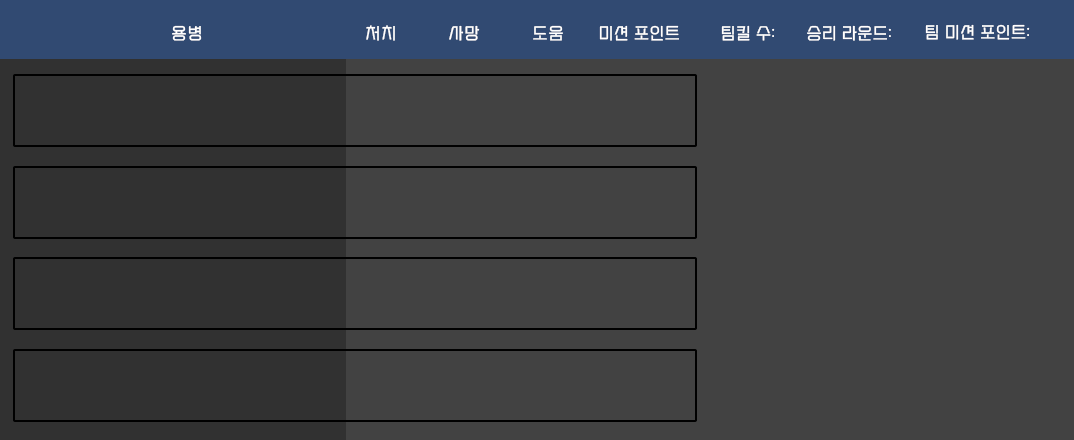
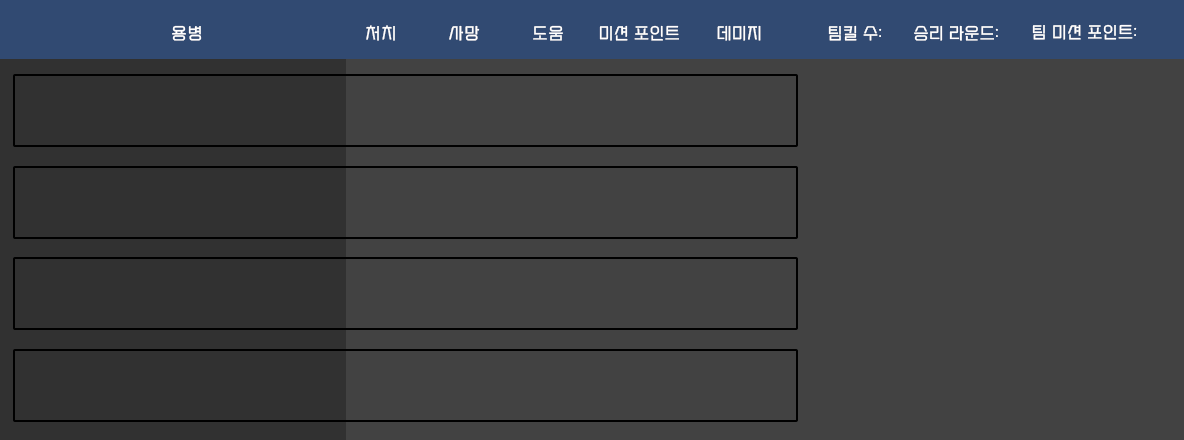
fix: 데미지 포인트 코드 추가

Changed region(s): [[0.6453, 0.1477, 0.676, 0.975], [0.3073, 0.0591, 0.9525, 0.1182], [0.1229, 0.0591, 0.1844, 0.0886]]

diff --git a/KOGBombing/Assets/Scripts/Orpul1/UI/RoundScoreUI/PlayerScoreBoardUI/PlayerScoreBoardModel.cs b/KOGBombing/Assets/Scripts/Orpul1/UI/RoundScoreUI/PlayerScoreBoardUI/PlayerScoreBoardModel.cs
@@ -7,10 +7,8 @@ using Unity.Collections.LowLevel.Unsafe;
 public class PlayerScoreBoardModel 
 {
     Action<EPlayerScore> updateUI;
-    Dictionary<EPlayerScore, StringBuilder> dicScoreText = new Dictionary<EPlayerScore, StringBuilder>();
-    Dictionary<EPlayerScore,int> dicPlayerScore = new Dictionary<EPlayerScore,int>();
-    public Dictionary<EPlayerScore,int> PlayerScore { get { return dicPlayerScore; } }
-    public Dictionary<EPlayerScore, StringBuilder> TextValues { get { return dicScoreText; } }
+    public List<StringBuilder> scoreText = new List<StringBuilder>();
+    public List<int> playerScore = new List<int>();
     int score = 0;
     public int Score { get { return score; } }
     public PlayerScoreBoardModel(Action<EPlayerScore> updateUI)
@@ -18,21 +16,21 @@ public class PlayerScoreBoardModel
         this.updateUI = updateUI;
         for (int i = 0; i < (int)EPlayerScore.END; i++)
         {
-            dicScoreText.Add((EPlayerScore)i, new StringBuilder());
-            dicPlayerScore.Add((EPlayerScore)i, 0);
+            scoreText.Add(new StringBuilder());
+            playerScore.Add(0);
         }
     }
     public void SetNickname(string nickname)
     {
-        TextValues[EPlayerScore.NICKNAME].Clear();
-        TextValues[EPlayerScore.NICKNAME].Append(nickname);
+        scoreText[(int)EPlayerScore.NICKNAME].Clear();
+        scoreText[(int)EPlayerScore.NICKNAME].Append(nickname);
         updateUI(EPlayerScore.NICKNAME);
     }
     public void SetScore(EPlayerScore type, int score)
     {
-        dicPlayerScore[type] = score;
-        dicScoreText[type].Clear();
-        dicScoreText[type].Append(dicPlayerScore[type]);
+        playerScore[(int)type] = score;
+        scoreText[(int)type].Clear();
+        scoreText[(int)type].Append(playerScore[(int)type]);
         updateUI(type);
     }
     

diff --git a/KOGBombing/Assets/Scripts/Semin/Player/PlayerHitBehavior.cs b/KOGBombing/Assets/Scripts/Semin/Player/PlayerHitBehavior.cs
@@ -115,10 +115,12 @@ public class PlayerHitBehavior : PlayerBehavior, IPunObservable, IDamageAble
 
 	public void OnDamaged(float damage, int playerIndex)
     {
-         playerData.pv.RPC("Damage", RpcTarget.All, damage, playerIndex);
+        playerData.pv.RPC("Damage", RpcTarget.All, damage, playerIndex);
+
         if (playerData.pv.IsMine)
         {
             Debug.Log($"OnDamged index {playerIndex}");
+            playerPointController.OnDamagePoint(playerIndex, (int)damage);
             PhotonNetwork.RaiseEvent((int)PunEventType.UPDATETEAMSTATE, null, options, SendOptions.SendReliable);
             blackBoard.viewCamera.GetComponent<PlayerCamera>().Shake(0.15f, 0.125f);
         }
@@ -221,7 +223,9 @@ public class PlayerHitBehavior : PlayerBehavior, IPunObservable, IDamageAble
 	{
 		if (blackBoard.playerStatus.invincibility) return;
         if(playerData.pv.IsMine)
+        {
             playerPointController.SetAttackPlayer(playerIndex);
+        }
 
         float decreaseHp = blackBoard.playerStatus.defence - damage;
         blackBoard.playerStatus.defence = Mathf.Max(decreaseHp, 0);

diff --git a/KOGBombing/Assets/Scripts/Orpul1/UI/RoundScoreUI/PlayerScoreBoardUI/PlayerScoreBoardView.cs b/KOGBombing/Assets/Scripts/Orpul1/UI/RoundScoreUI/PlayerScoreBoardUI/PlayerScoreBoardView.cs
@@ -6,20 +6,5 @@ using UnityEngine.UI;
 
 public class PlayerScoreBoardView : MonoBehaviour
 {
-    public TextMeshProUGUI tmpNickname;
-    public TextMeshProUGUI tmpKillScore;
-    public TextMeshProUGUI tmpAsistScore;
-    public TextMeshProUGUI tmpDeathScore;
-    public TextMeshProUGUI tmpMissionScore;
-    private TextMeshProUGUI[] textUIarray { get { return new TextMeshProUGUI[] { tmpNickname, tmpKillScore, tmpDeathScore, tmpAsistScore, tmpMissionScore }; } }
-    private Dictionary<EPlayerScore, TextMeshProUGUI> dicTextUI = new Dictionary<EPlayerScore, TextMeshProUGUI> ();
-    public Dictionary<EPlayerScore, TextMeshProUGUI> Texts { get { return dicTextUI; } }
-    private void Awake()
-    {
-        TextMeshProUGUI[] textUIs = textUIarray;
-        for (int i = 0; i < (int)EPlayerScore.END; i++) 
-        {
-            dicTextUI.Add((EPlayerScore)i, textUIs[i]);
-        }
-    }
+    public TextMeshProUGUI[] tmpScores;
 }

diff --git a/KOGBombing/Assets/Scripts/Orpul1/UI/RoundScoreUI/BattleBoardUpdater.cs b/KOGBombing/Assets/Scripts/Orpul1/UI/RoundScoreUI/BattleBoardUpdater.cs
@@ -104,14 +104,11 @@ public class BattleBoardUpdater : UIPopup, IUpdateScore, IHalfRoundUISetable
         }
     }
 
-    public void UpdatePlayerScore(StringBuilder nickname, EPlayerScore updateType)
+    public void UpdatePlayerScore(StringBuilder nickname, EPlayerScore updateType , int score)
     {
-        Debug.Log($"{updateType.ToString()} event! key is {nickname.ToString()}");
-        if (!dictPlayerScore.ContainsKey(nickname.ToString()))
-        {
-            return;
-        }
-        dictPlayerScore[nickname.ToString()].SetScore(updateType, 1);
+        if (!dictPlayerScore.ContainsKey(nickname.ToString())) return;
+        
+        dictPlayerScore[nickname.ToString()].SetScore(updateType, score);
         List<string> myTeamList = Managers.PointData.MyTeamPlayers;
         List<string> otherTeamList = Managers.PointData.OtherTeamPlayers;
         

diff --git a/KOGBombing/Assets/Scripts/Orpul1/UI/RoundScoreUI/PlayerScoreBoardUI/PlayerScoreBoardPresenter.cs b/KOGBombing/Assets/Scripts/Orpul1/UI/RoundScoreUI/PlayerScoreBoardUI/PlayerScoreBoardPresenter.cs
@@ -19,12 +19,12 @@ public class PlayerScoreBoardPresenter : MonoBehaviour, ISetScoreable<EPlayerSco
     }
     public void UpdateUI(EPlayerScore type)
     {
-        view.Texts[type].text = model.TextValues[type].ToString();
+        view.tmpScores[(int)type].text = model.scoreText[(int)type].ToString();
     }
 
     public void SetScore(EPlayerScore type, int score)
     {
-        model.SetScore(type, model.PlayerScore[type] + score);
+        model.SetScore(type, model.playerScore[(int)type] + score);
     }
 
     public void ResetScore()

diff --git a/KOGBombing/Assets/Scripts/Orpul1/Interface/IUpdateScore.cs b/KOGBombing/Assets/Scripts/Orpul1/Interface/IUpdateScore.cs
@@ -6,7 +6,7 @@ using UnityEngine;
 
 public interface IUpdateScore
 {
-    public void UpdatePlayerScore(StringBuilder playerIndex, EPlayerScore updateType);
+    public void UpdatePlayerScore(StringBuilder playerIndex, EPlayerScore updateType, int score = 1);
     public void UpdateTeamScore(ETeam teamType,ETeamScore updateType);
     public void UpdateTeamWinScore();
 }

diff --git a/KOGBombing/Assets/Scripts/Orpul1/Enum/EPlayerScore.cs b/KOGBombing/Assets/Scripts/Orpul1/Enum/EPlayerScore.cs
@@ -5,5 +5,6 @@ public enum EPlayerScore
     DEATHSCORE,
     ASISTSCORE,
     MISSIONSCORE,
+    DAMAGESCORE,
     END
 }
